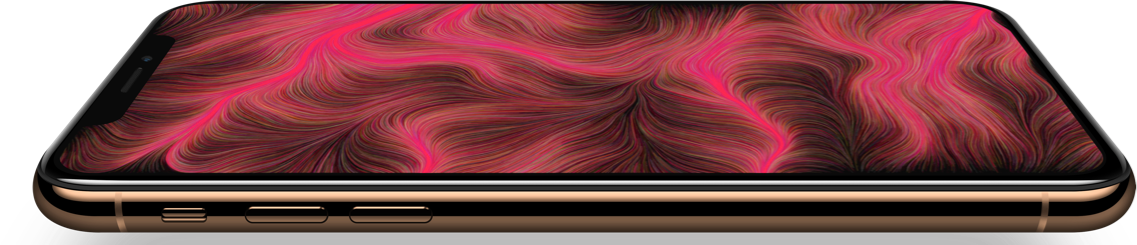
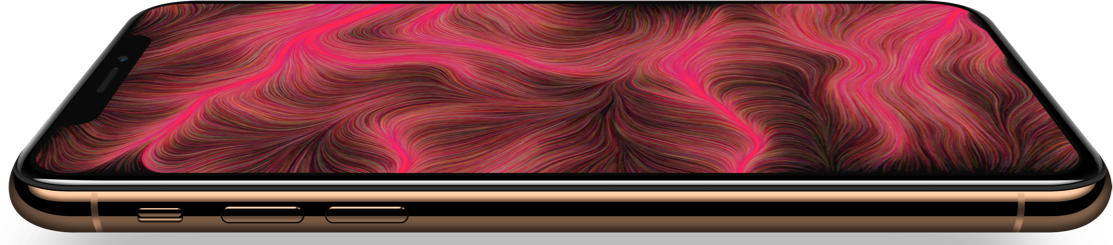
💄 responsive

diff --git a/style.css b/style.css
@@ -7,6 +7,26 @@
   position: relative;
 }
 
+@media screen and (max-width: 1300px) {
+  .container {
+    margin-left: 50px;
+    margin-right: 50px;
+  }
+}
+
+@media screen and (max-width: 750px) {
+  .container {
+    margin-left: 20px;
+    margin-right: 20px;
+  }
+}
+
+body {
+  background-color: #000;
+  position: relative;
+  overflow-x: hidden;
+}
+
 /* header */
 
 .header {
@@ -20,13 +40,13 @@
   left: 0;
   z-index: 1000;
 }
+
 .header__logo {
-  font-family: SFProDisplay-Medium;
+  font-family: "roboto";
   font-size: 18px;
   color: #FFFFFF;
   height: 100%;
   line-height: 71px;
-  margin-left: 120px;
 }
 .header__nav {
   position: absolute;
@@ -38,7 +58,7 @@
   display: flex;
 }
 .header__nav__item {
-  font-family: SFProDisplay-Medium;
+  font-family: "roboto";
   font-size: 18px;
   color: #FFFFFF;
   margin-left: 90px;
@@ -56,30 +76,58 @@
   position: relative;
 }
 
+@media screen and (max-width: 750px) {
+  .intro {
+    padding-top: 150px;
+    padding-bottom: 100px;
+  }
+}
+
 .intro__title {
   max-width: 700px;
   margin-left: auto;
   margin-right: auto;
-  font-family: SFProDisplay-Semibold;
+  font-family: "roboto";
   font-size: 80px;
   color: #FFFFFF;
   letter-spacing: -1px;
   text-align: center;
-  line-height: 84px;
+  line-height: 1.3;
   transform: translateY(40px);
   opacity: 0;
   transition: transform ease 1.2s, opacity ease 1.3s;
   will-change: transform, opacity;
 }
 
+@media screen and (max-width: 750px) {
+  .intro__title {
+    font-size: 60px;
+  }
+}
+
+@media screen and (max-width: 550px) {
+  .intro__title {
+    font-size: 35px;
+  }
+}
+
 .intro__image {
+  margin-left: auto;
+  margin-right: auto;
   margin-top: 145px;
   max-width: 1137px;
   transform: translateY(40px);
   opacity: 0;
   transition: transform ease 1.2s, opacity ease 1.3s;
   will-change: transform, opacity;
-  transition-delay: 0.2s
+  transition-delay: 0.2s;
+  width: 100%;
+}
+
+@media screen and (max-width: 750px) {
+  .intro__image {
+    margin-top: 100px;
+  }
 }
 
 .intro__content {
@@ -90,6 +138,13 @@
   letter-spacing: -0.4px;
   text-align: center;
   line-height: 1.5;
+}
+
+@media screen and (max-width: 750px) {
+  .intro__content {
+    font-size: 20px;
+    margin-top: 100px;
+  }
 }
 
 /* generate */
@@ -106,13 +161,34 @@
   justify-content: space-between;
 }
 
+@media screen and (max-width: 900px) {
+  .generate__container {
+    flex-direction: column;
+    display: flex;
+    align-items: center;
+    justify-content: center;
+  }
+}
+
 .generate__form {
   display: block;
+}
+
+@media screen and (max-width: 900px) {
+  .generate__form {
+    margin-bottom: 50px;
+  }
 }
 
 .input__groupe {
   display: flex;
   margin-bottom: 65px;
+}
+
+@media screen and (max-width: 900px) {
+  .input__groupe {
+    flex-direction: column;
+  }
 }
 
 .generate__form__input {
@@ -129,6 +205,13 @@
   margin-right: 15px;
   background-color: transparent;
   outline: none;
+}
+
+@media screen and (max-width: 900px) {
+  .generate__form__input {
+    margin-right: 0;
+    margin-bottom: 20px;
+  }
 }
 
 .generate_download,
@@ -149,6 +232,12 @@
   background-color: transparent;
   outline: none;
   transition: .3s ease-in-out all;
+}
+
+@media screen and (max-width: 900px) {
+  .generate_download {
+    margin-top: 20px;
+  }
 }
 
 ::placeholder {
@@ -180,7 +269,14 @@
 }
 
 .finalRender__container {
+  position: relative;
+}
 
+@media screen and (max-width: 900px) {
+  .finalRender__container {
+    width: 80%;
+    margin-left: 10%;
+  }
 }
 
 .finalRender {
@@ -200,6 +296,7 @@
 
 
 
+
 /* showcase */
 
 .showcase {
@@ -211,11 +308,28 @@
   position: relative;
 }
 
+@media screen and (max-width: 750px) {
+  .showcase {
+    padding-top: 165px;
+    padding-bottom: 135px;
+  }
+}
+
 .showcase__image1 {
+  width: 100%;
+  max-width: 900px;;
 }
 
 .showcase__image2 {
+  width: 100%;
+  max-width: 900px;;
   margin-top: 252px;
+}
+
+@media screen and (max-width: 750px) {
+  .showcase__image2 {
+    margin-top: 100px;
+  }
 }
 
 /* footer */
@@ -247,6 +361,12 @@
   text-decoration: none;
 }
 
+@media screen and (max-width: 750px) {
+  .footer__contact {
+    display: none;
+  }
+}
+
 #sketch-holder {
   position: absolute;
   top: 20px;
@@ -257,6 +377,13 @@
   height: calc(100% - 35px);
   border-radius: 67px;
 }
+
+@media screen and (max-width: 900px) {
+  #sketch-holder {
+    border-radius: 30px;
+  }
+}
+
 
 .hide {
   opacity: 0;

diff --git a/index.html b/index.html
@@ -5,6 +5,7 @@
   <meta name="viewport" content="width=device-width, initial-scale=1.0">
   <meta http-equiv="X-UA-Compatible" content="ie=edge">
   <title>Generative Iphone Wallpaper</title>
+  <link href="https://fonts.googleapis.com/css?family=Roboto" rel="stylesheet">
   <link rel="stylesheet" href="./reset.css">
   <link rel="stylesheet" href="./style.css">
   <script src="lib/p5.min.js"></script>
@@ -17,23 +18,14 @@
   <header class="header">
     <div class="container">
       <div class="header__logo">Flinked</div>
-      <nav class="header__nav">
-        <a href="#" class="header__nav__item">Concept</a>
-        <a href="#" class="header__nav__item">Your wallpaper</a>
-        <a href="#" class="header__nav__item">Showcase</a>
-      </nav>
     </div>
   </header>
   <section class="intro">
     <div class="container">
-      <div class="intro__title">Votre propre univers à porter de main.</div>
+      <div class="intro__title">Votre iPhone, votre fond d’écran.</div>
       <img src="./img/iphone-center-mockup.png" alt="" class="intro__image">
       <div class="intro__content to-animate">
-        Créer votre propre fond d’écran unique grace a notre outils génératif.
-        Unique a chaque iPhone. raesent efficitur pharetra sapien, non rhoncus velit
-        mollis sed. Duis vitae risus dui. Crascondimentum consectetur nisi ac accumsan.
-        raesent efficitur pharetra sapien, non rhoncus velit mollis sed. Duis vitae risus dui.
-        Cras condimentum consectetur nisi ac accumsan.
+        Créer votre propre fond d’écran unique en renseignant le numéro de série de votre iPhone. Réalisé en s’appuyant sur du design génératif, votre fond d’écran ne sera semblable à nul autre. Votre numéro de série est a rajouté à titre indicatif. Si vous le souhaitez vous pouvez remplir ce champ avec la requête que vous souhaitez.
       </div>
     </div>
   </section>
@@ -69,7 +61,7 @@
   </section>
   <footer class="footer">
     <div class="container">
-      <div class="footer__copyright">Copyright flinked 2019 | All rights reserved</div>
+      <div class="footer__copyright">Copyright flinked 2019</div>
       <a href="mailto:timothee.hatton@gmail.com" class="footer__contact">Contact</a>
     </div>
   </footer>
